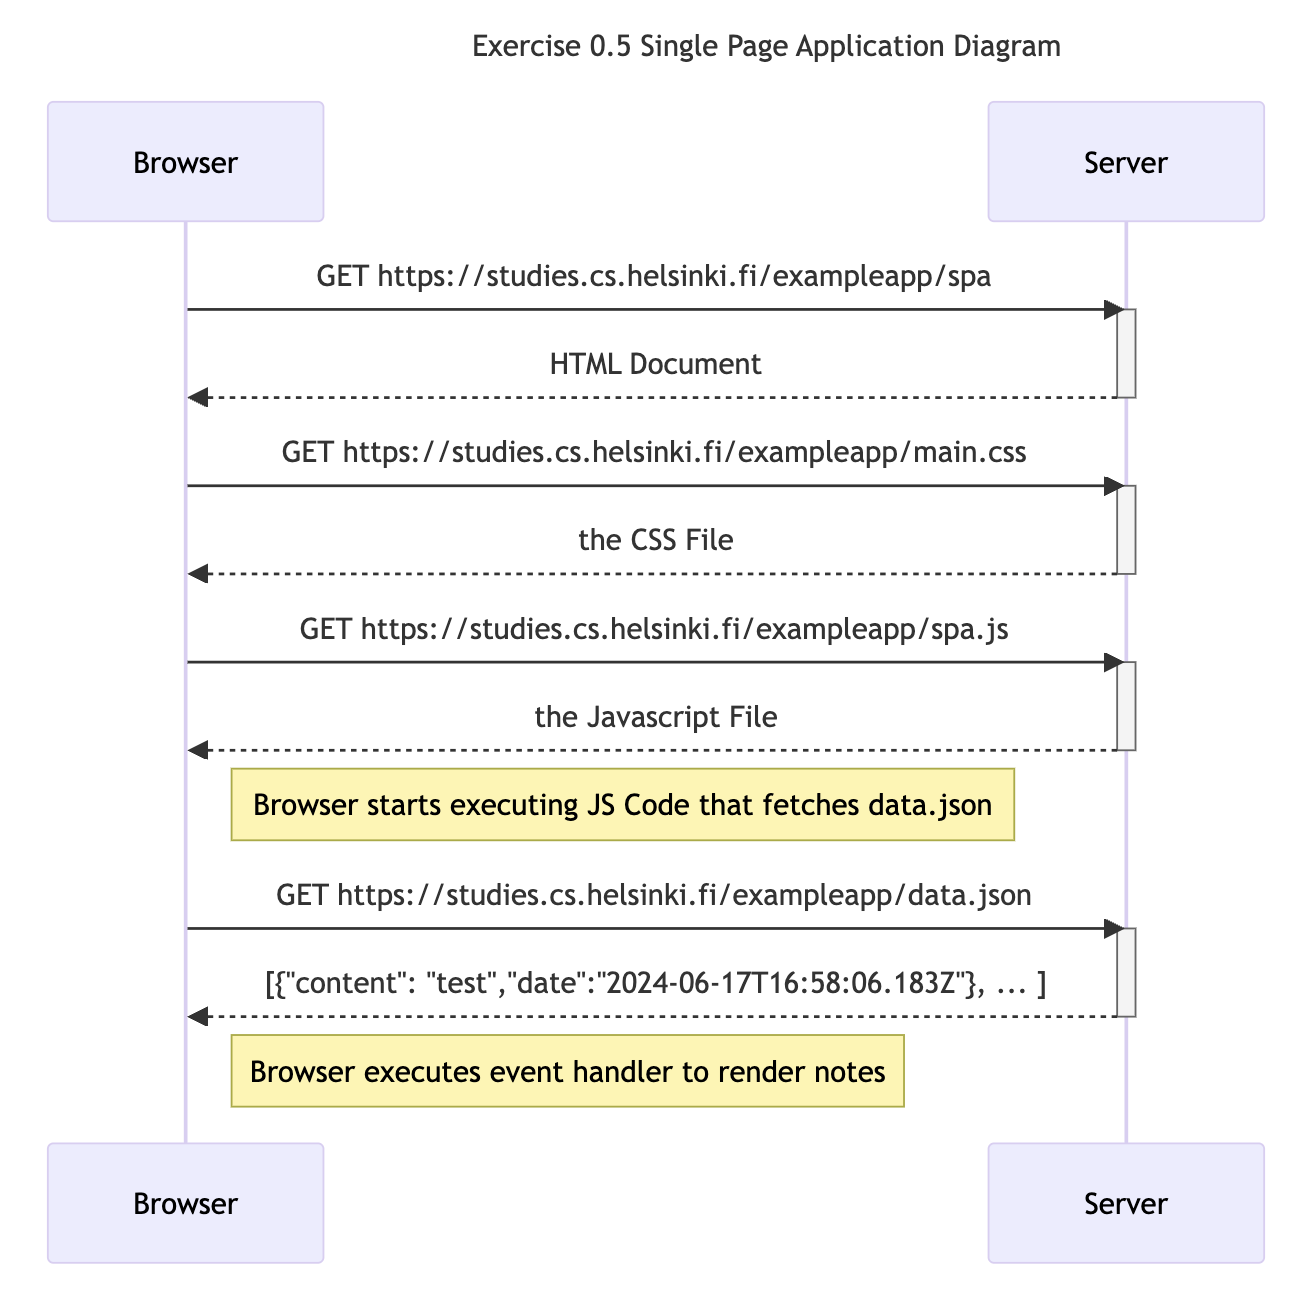
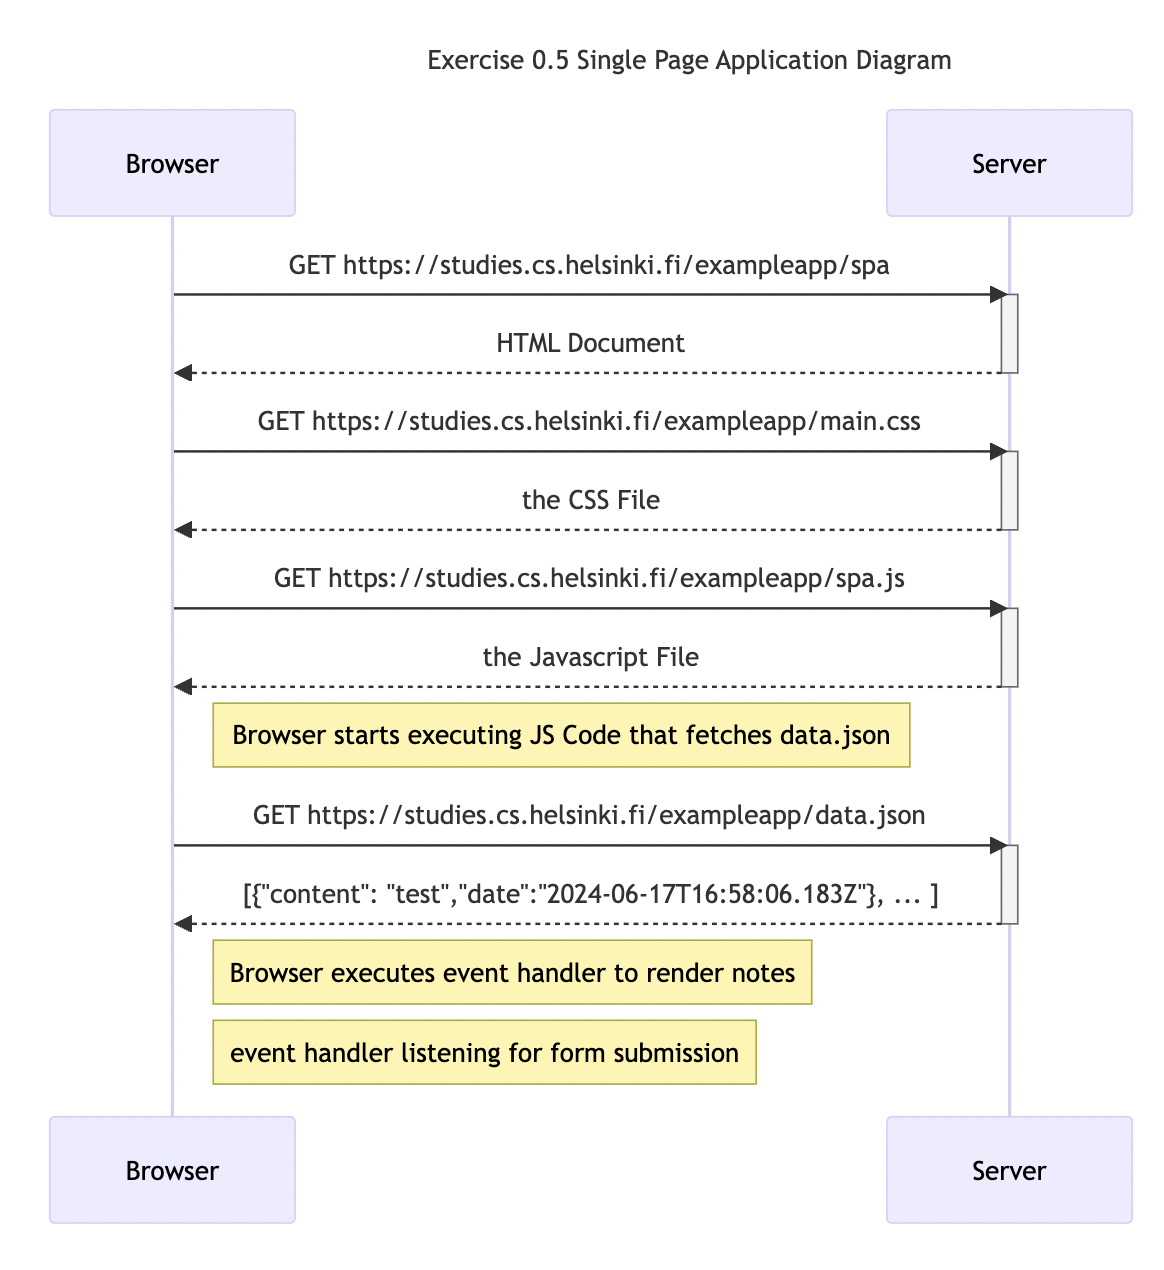
Ex 5 and Ex 6 Commit

diff --git a/part0/SPADiagram.md b/part0/SPADiagram.md
@@ -4,28 +4,30 @@ sequenceDiagram
     participant Browser
     participant Server
 
-Browser ->> Server: GET https://studies.cs.helsinki.fi/exampleapp/spa
-activate Server
-Server -->> Browser: HTML Document
-deactivate Server
+    Browser ->> Server: GET https://studies.cs.helsinki.fi/exampleapp/spa
+    activate Server
+    Server -->> Browser: HTML Document
+    deactivate Server
 
-Browser ->> Server: GET https://studies.cs.helsinki.fi/exampleapp/main.css
-activate Server
-Server -->> Browser: the CSS File
-deactivate Server
+    Browser ->> Server: GET https://studies.cs.helsinki.fi/exampleapp/main.css
+    activate Server
+    Server -->> Browser: the CSS File
+    deactivate Server
 
-Browser ->> Server: GET https://studies.cs.helsinki.fi/exampleapp/spa.js
-activate Server
-Server -->> Browser: the Javascript File
-deactivate Server
+    Browser ->> Server: GET https://studies.cs.helsinki.fi/exampleapp/spa.js
+    activate Server
+    Server -->> Browser: the Javascript File
+    deactivate Server
 
-note right of Browser: Browser starts executing JS Code that fetches data.json
+    note right of Browser: Browser starts executing JS Code that fetches data.json
 
-Browser->>Server: GET https://studies.cs.helsinki.fi/exampleapp/data.json
-activate Server
-Server-->>Browser: [{"content": "test","date":"2024-06-17T16:58:06.183Z"}, ... ]
-deactivate Server
+    Browser->>Server: GET https://studies.cs.helsinki.fi/exampleapp/data.json
+    activate Server
+    Server-->>Browser: [{"content": "test","date":"2024-06-17T16:58:06.183Z"}, ... ]
+    deactivate Server
 
-note right of Browser: Browser executes event handler to render notes
+    note right of Browser: Browser executes event handler to render notes
+
+    note right of Browser: event handler listening for form submission
 
 ```

diff --git a/part0/SPADiagramNewNote.md b/part0/SPADiagramNewNote.md
@@ -1,0 +1,20 @@
+```mermaid
+
+sequenceDiagram
+
+    title: Exercise 0.6 New Note Single Page Application Diagram
+    participant Browser
+    participant Server
+
+    note right of Browser: User inputs text and clicks 'Save' Button
+
+    note right of Browser: onSubmit listener prevents default to avoid additional GET 
+
+    note right of Browser: Browser redraws notes locally  
+
+    Browser->> Server: POST https://studies.cs.helsinki.fi/exampleapp/new_note_spa
+    activate Server
+    Server-->>Browser: Status Code: 201 Created, {"message":"note created"}
+    deactivate Server
+
+```
